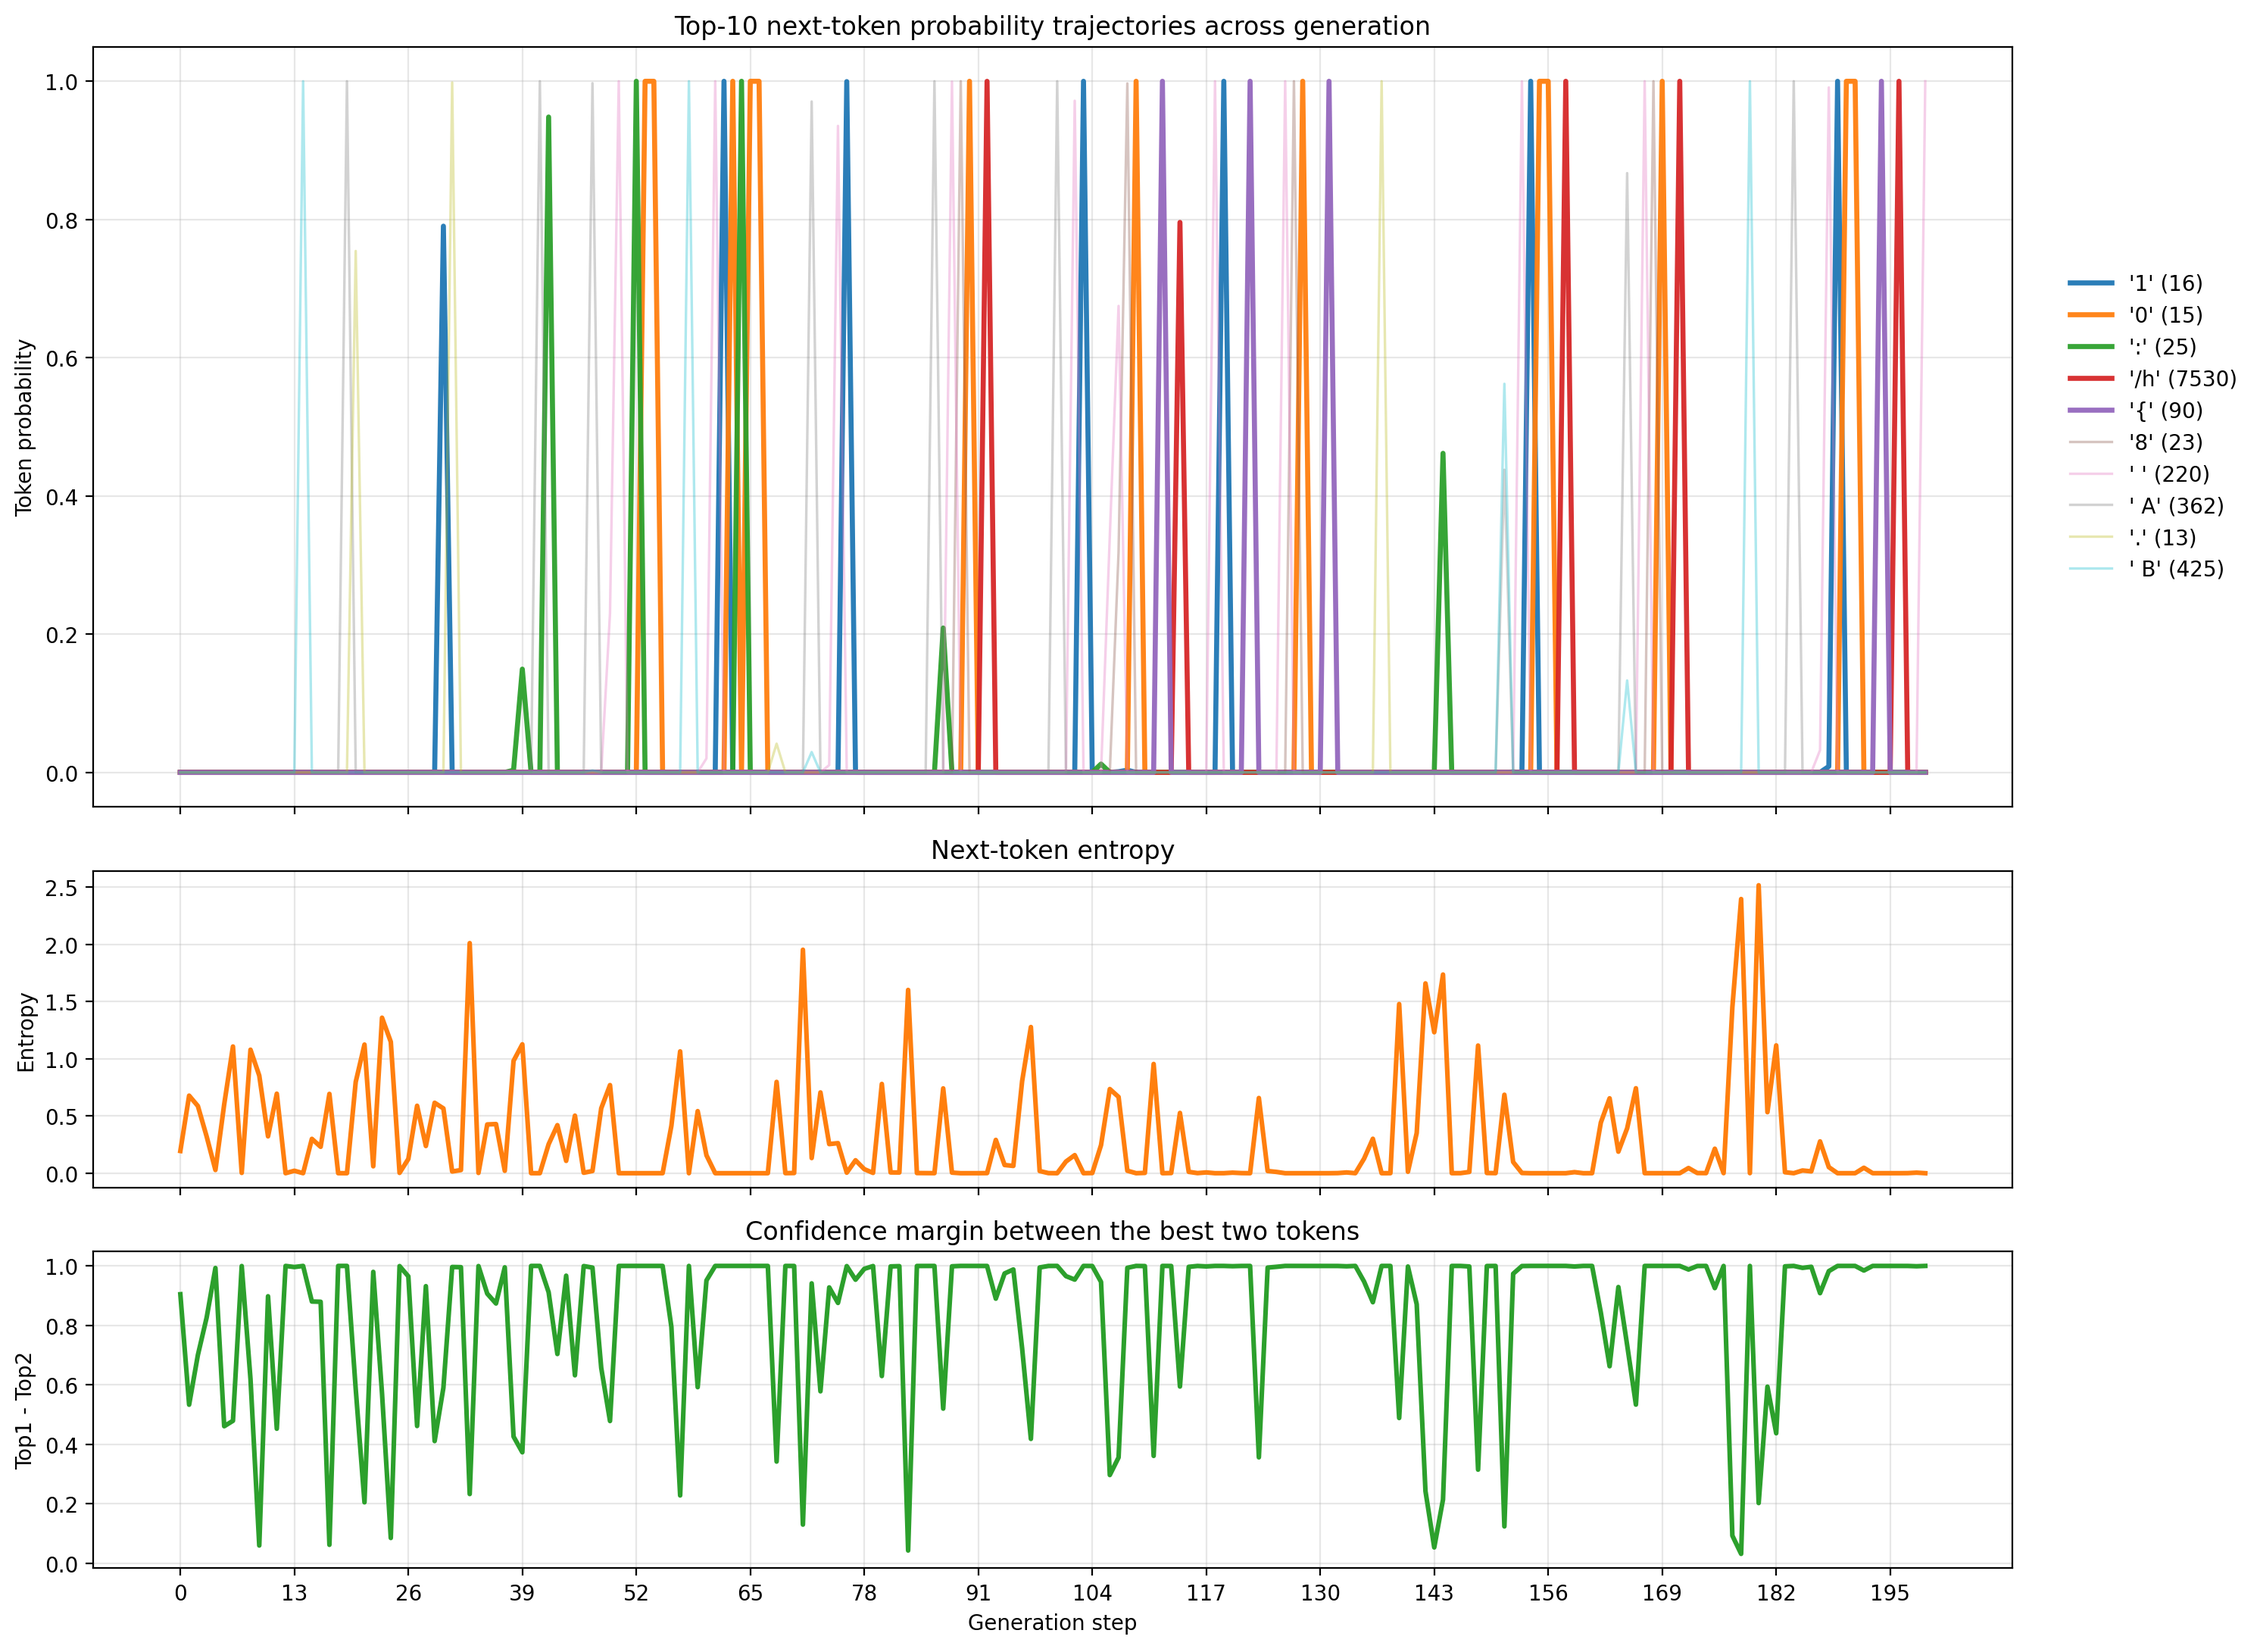
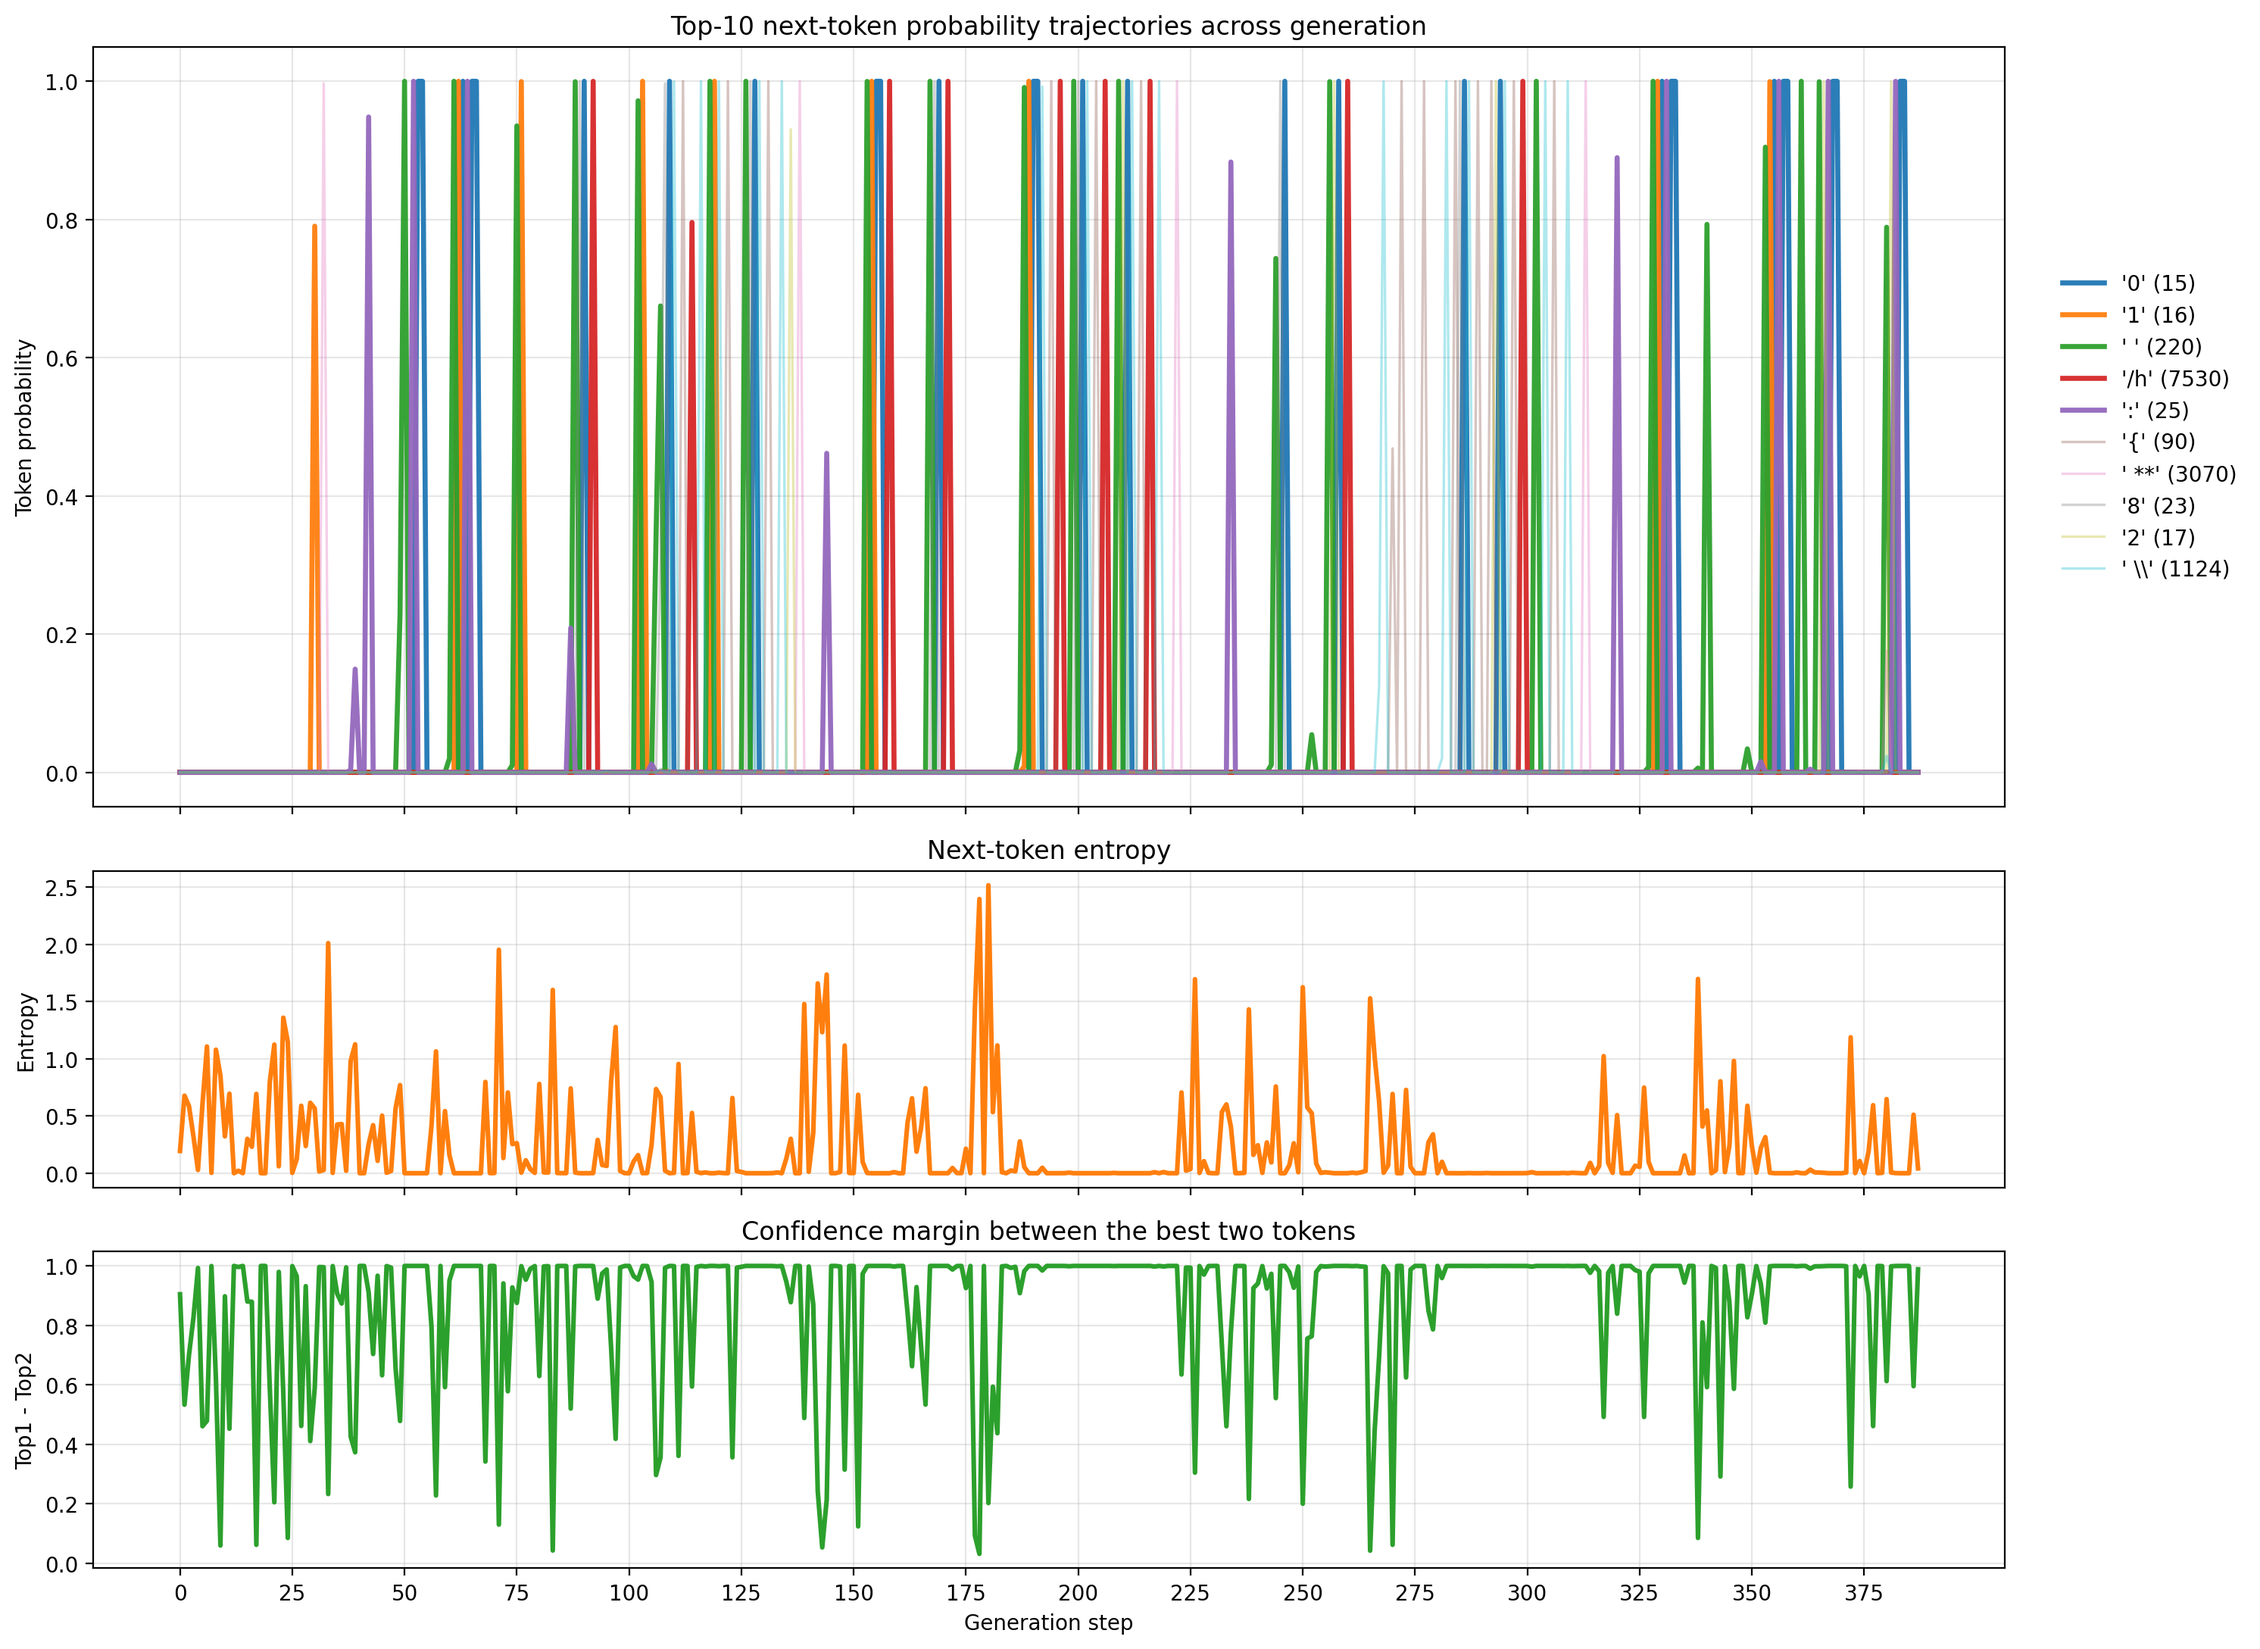
Clean Results

diff --git a/experiments/two_hop_math_activations.py b/experiments/two_hop_math_activations.py
@@ -19,7 +19,7 @@ def get_data():
         data = json.load(f)
     return data
 
-def generate_with_logit_cached(ids, model, tokenizer, max_tokens=200, temperature=0):
+def generate_with_logit_cached(ids, model, tokenizer, max_tokens=1000, temperature=0):
     generated_tokens = []
     out = {}
 
@@ -57,7 +57,7 @@ def generate_with_logit_cached(ids, model, tokenizer, max_tokens=200, temperatur
     print(tokenizer.decode(generated_tokens))
     return generated_tokens, out
 
-def generate_with_forward_cached(ids, model, tokenizer, max_tokens=200, temperature=0):
+def generate_with_forward_cached(ids, model, tokenizer, max_tokens=1000, temperature=0):
     generated_tokens = []
     out = {}
     
